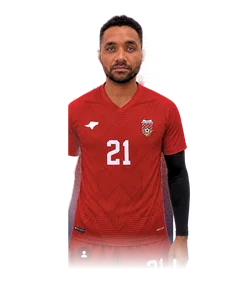
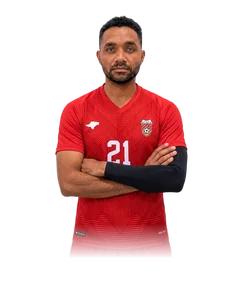
الصليبخات: دانيل سيلفا 21 بصورة استوديو مولّدة بوجهه (Gemini) — v182

Changed region(s): [[0.2333, 0.24, 0.8167, 0.9], [0.3792, 0.03, 0.6125, 0.3]]

diff --git a/fantasy/index.html b/fantasy/index.html
@@ -12,7 +12,7 @@
 <link rel="preconnect" href="https://fonts.googleapis.com">
 <link rel="preconnect" href="https://fonts.gstatic.com" crossorigin>
 <link href="https://fonts.googleapis.com/css2?family=Almarai:wght@300;400;700;800&display=swap" rel="stylesheet">
-<link rel="stylesheet" href="css/style.css?v=181">
+<link rel="stylesheet" href="css/style.css?v=182">
 <script src="https://cdnjs.cloudflare.com/ajax/libs/firebase/10.12.2/firebase-app-compat.min.js"></script>
 <script src="https://cdnjs.cloudflare.com/ajax/libs/firebase/10.12.2/firebase-auth-compat.min.js"></script>
 <script src="https://cdnjs.cloudflare.com/ajax/libs/firebase/10.12.2/firebase-firestore-compat.min.js"></script>
@@ -20,13 +20,13 @@
 </head>
 <body>
   <div id="splash">
-    <div class="splash-card"><img class="splash-logo" src="assets/logo-light.png?v=181" alt="Kuwait Fantasy League"></div>
+    <div class="splash-card"><img class="splash-logo" src="assets/logo-light.png?v=182" alt="Kuwait Fantasy League"></div>
   </div>
 
   <header id="topbar" style="display:none">
     <div id="brand" onclick="APP.go('dashboard')">
-      <img class="brand-lockup lk-dark" src="assets/logo-dark.png?v=181" alt="Kuwait Fantasy League">
-      <img class="brand-lockup lk-light" src="assets/logo-light.png?v=181" alt="Kuwait Fantasy League">
+      <img class="brand-lockup lk-dark" src="assets/logo-dark.png?v=182" alt="Kuwait Fantasy League">
+      <img class="brand-lockup lk-light" src="assets/logo-light.png?v=182" alt="Kuwait Fantasy League">
     </div>
     <a id="toSite" href="/" title="العودة للموقع">
       <svg viewBox="0 0 24 24" width="16" height="16" fill="none" stroke="currentColor" stroke-width="2.2" stroke-linecap="round" stroke-linejoin="round" aria-hidden="true"><path d="M9 6l6 6-6 6"/></svg>
@@ -41,28 +41,28 @@
   <nav id="bottomnav"></nav>
   <div id="toasts"></div>
 
-  <script src="js/cloud.js?v=181"></script>
-  <script src="js/data.js?v=181"></script>
-  <script src="js/engine.js?v=181"></script>
-  <script src="js/ui.js?v=181"></script>
-  <script src="js/photos.js?v=181"></script>
-  <script src="js/kits.js?v=181"></script>
-  <script src="js/kits-number.js?v=181"></script>
-  <script src="js/moderation.js?v=181"></script>
-  <script src="js/views.js?v=181"></script>
-  <script src="js/picker.js?v=181"></script>
-  <script src="js/extras.js?v=181"></script>
-  <script src="js/push.js?v=181"></script>
-  <script src="js/adminauth.js?v=181"></script>
-  <script src="js/admin.js?v=181"></script>
-  <script src="js/guide.js?v=181"></script>
-  <script src="js/live-gw.js?v=181"></script>
-  <script src="js/points.js?v=181"></script>
-  <script src="js/mfsync.js?v=181"></script>
-  <script src="js/roster-sync.js?v=181"></script>
-  <script src="js/app.js?v=181"></script>
-  <script src="js/i18n.js?v=181"></script>
-  <script src="js/i18n-more.js?v=181"></script>
-  <script src="js/gate.js?v=181"></script>
+  <script src="js/cloud.js?v=182"></script>
+  <script src="js/data.js?v=182"></script>
+  <script src="js/engine.js?v=182"></script>
+  <script src="js/ui.js?v=182"></script>
+  <script src="js/photos.js?v=182"></script>
+  <script src="js/kits.js?v=182"></script>
+  <script src="js/kits-number.js?v=182"></script>
+  <script src="js/moderation.js?v=182"></script>
+  <script src="js/views.js?v=182"></script>
+  <script src="js/picker.js?v=182"></script>
+  <script src="js/extras.js?v=182"></script>
+  <script src="js/push.js?v=182"></script>
+  <script src="js/adminauth.js?v=182"></script>
+  <script src="js/admin.js?v=182"></script>
+  <script src="js/guide.js?v=182"></script>
+  <script src="js/live-gw.js?v=182"></script>
+  <script src="js/points.js?v=182"></script>
+  <script src="js/mfsync.js?v=182"></script>
+  <script src="js/roster-sync.js?v=182"></script>
+  <script src="js/app.js?v=182"></script>
+  <script src="js/i18n.js?v=182"></script>
+  <script src="js/i18n-more.js?v=182"></script>
+  <script src="js/gate.js?v=182"></script>
 </body>
 </html>
